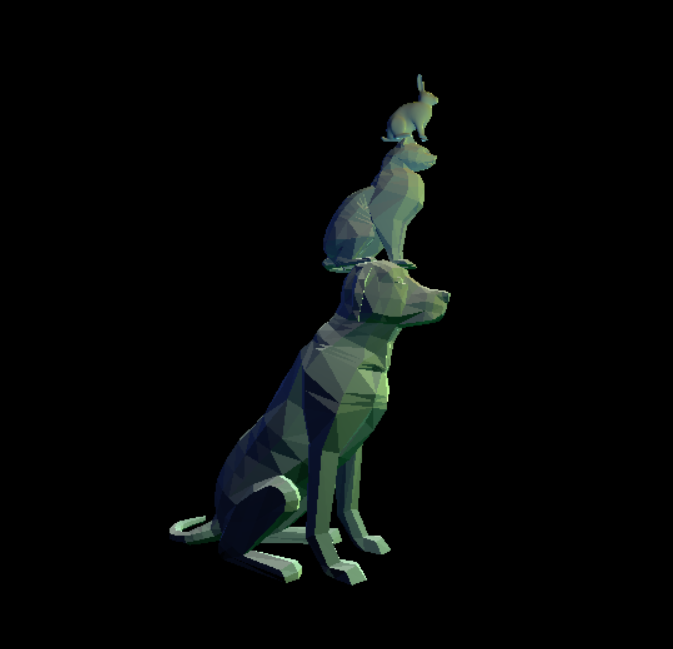
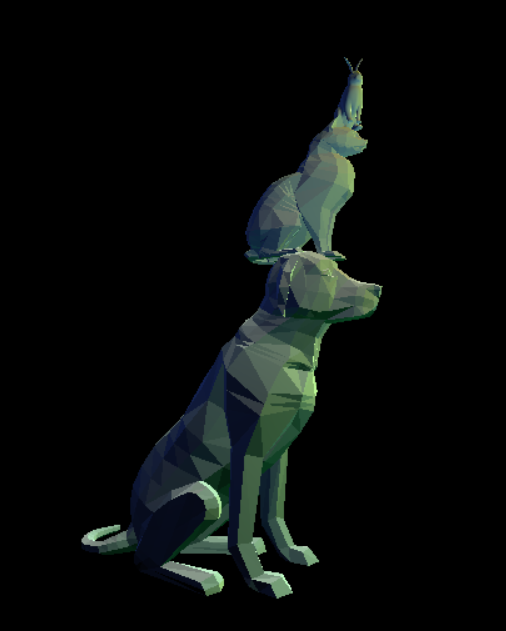
slight adjustments to part2 lab 2

Changed region(s): [[0.1482, 0.0903, 0.7708, 0.9635]]

diff --git a/lab2/part2.html b/lab2/part2.html
@@ -53,11 +53,11 @@
             loader.load('cat.glb', function (gltf) {
                 scene.add(gltf.scene);
                 gltf.scene.position.x = 20;
+                gltf.scene.position.y = 55;
                 gltf.scene.rotation.y = -5;
                 gltf.scene.scale.x = 1;
                 gltf.scene.scale.y = 1;
                 gltf.scene.scale.z = 1.3;
-                gltf.scene.position.y = 55;
             }, function (xhr) {
                 console.log((xhr.loaded / xhr.total * 100) + '% loaded' );
             }, function (error) {
@@ -68,12 +68,11 @@
             loader.load('rabbit.glb', function (gltf) {
                 scene.add(gltf.scene);
                 gltf.scene.position.x = 15;
-                gltf.scene.rotation.y = -5;
-                //gltf.scene.rotation.z = 2;
+                gltf.scene.position.y = 85;
+                gltf.scene.rotation.y = -6;
                 gltf.scene.scale.x = 0.5;
                 gltf.scene.scale.y = 0.5;
                 gltf.scene.scale.z = 0.5;
-                gltf.scene.position.y = 85;
             }, function (xhr) {
                 console.log((xhr.loaded / xhr.total * 100) + '% loaded' );
             }, function (error) {
